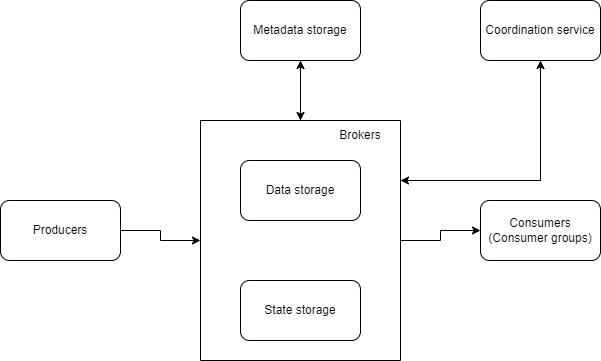
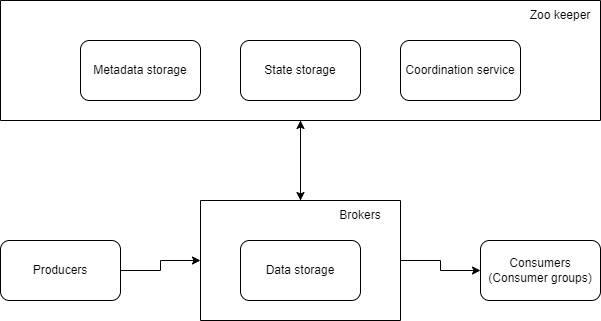
Update Generative AI notes

diff --git a/software-engineering/2-distributed-message-queue.html b/software-engineering/2-distributed-message-queue.html
@@ -121,14 +121,17 @@
     <ul>
       <li>Holds partitions of topics</li>
       <li>Data storage - persists messages in a form of partitions</li>
-      <li>State storage - manages consumer states</li>
-      <li>Metadata stroage - persists configuration of topics</li>
     </ul>
 
-    <h3 class="card-title">Coordination service</h3>
+    <h3 class="card-title">Zookeeper</h3>
     <ul>
-      <li>Service discovery - checks which brokers are alive</li>
-      <li>Leader election - only one broker serves as active controller at a time, which assigns partitions in the cluster. Apache ZooKeeper or etcd are commonly used as leader elector</li>
+      <li>Metadata stroage - persists configuration of topics</li>
+      <li>State storage - manages consumer states</li>
+      <li>Coordination service</li>
+      <ul>
+        <li>Service discovery - checks which brokers are alive</li>
+        <li>Leader election - only one broker serves as active controller at a time, which assigns partitions in the cluster. Apache ZooKeeper or etcd are commonly used as leader elector</li>
+      </ul>
     </ul>
   </div>
   <div class="card-footer text-muted">
@@ -226,14 +229,58 @@
           <ul>
             <li>Requires long polling, which waits some time for new messages</li>
           </ul>
+          <li>Workflow</li>
+          <ul>
+            <img class="img-fluid" class="card-img-top" src="/img/system-design/distributed-message-queue3.png" alt="Card image cap">
+            <li>A new consumer wants to join group 1 and subscribe to topic A</li>
+            <li>All consumers in the same group connect to the same broker</li>
+            <li>Coordinator assignes partition 2 to consumer</li>
+            <li>Consumer fetches message from the last consumed offset, which is managed by state storage</li>
+            <li>Consumer processes messages and commits the offset to the broker</li>
+          </ul>
         </ul>
-        <img class="img-fluid" class="card-img-top" src="/img/system-design/distributed-message-queue3.png" alt="Card image cap">
-        <li>A new consumer wants to join group 1 and subscribe to topic A</li>
-        <li>All consumers in the same group connect to the same broker</li>
-        <li>Coordinator assignes partition 2 to consumer</li>
-        <li>Consumer fetches message from the last consumed offset, which is managed by state storage</li>
-        <li>Consumer processes messages and commits the offset to the broker</li>
+        <li>Consumer rebalancing</li>
+        <ul>
+          <li>Decides which consumer is responsible for which subset of partitions</li>
+          <li>Needed when consumer joins, consumer leaves, consumer crashes, paritions are adjusted</li>
+          <img class="img-fluid" class="card-img-top" src="/img/system-design/distributed-message-queue4.png" alt="Card image cap">
+          <li>Each consumer belongs to a group. Each consumer finds the coordinator by hashing the group name. All consumers from the same group are connected to the same coordinator</li>
+          <li>Coordinator elects new leader for the group</li>
+          <li>Leader generates new partition dispatch plan and reports it back to coordinator. Coordinator broadcasts the plan to other consumers in the group</li>
+        </ul>
       </ul>
+    </ul>
+
+    <h3 class="card-title">Replication</h3>
+    <ul>
+      <li>For example, each partition having 3 replica means that 1 leader and 2 followers are distributed in different brokers</li>
+      <li>Messages are only written to the leader, and followers sync messages from leader</li>
+      <li>In-sync replica - replicas that are in-sync with the leader</li>
+      <li>ACK=all</li>
+      <ul>
+        <li>Producer get ACK when all in-sync replicas received the message</li>
+        <li>High latency but strong message durability</li>
+      </ul>
+      <li>ACK=1</li>
+      <ul>
+        <li>Producer get ACK when leader received the message</li>
+        <li>Low latency but occasional data loss</li>
+      </ul>
+      <li>ACK=0</li>
+      <ul>
+        <li>Produces send messages to leader without waiting for any ACK</li>
+        <li>Suitable for collecting metrics or logging data</li>
+      </ul>
+    </ul>
+
+    <h3 class="card-title">Scalability</h3>
+    <ul>
+      <li></li>
+    </ul>
+
+    <h3 class="card-title">Data delivery semantics</h3>
+    <ul>
+      <li></li>
     </ul>
   </div>
   <div class="card-footer text-muted">

diff --git a/machine-learning/5-people-you-may-know.html b/machine-learning/5-people-you-may-know.html
@@ -115,7 +115,7 @@
         <li>Edge prediction</li>
         <ul>
           <li>Input is entire graph and output is probability of an edge existing between two specific nodes</li>
-          <li>Compute the edge probabilities between user A and otehr users</li>
+          <li>Compute the edge probabilities between user A and other users</li>
         </ul>
       </ul>
     </ul>
@@ -195,14 +195,20 @@
       <li>Model selection</li>
       <ul>
         <li>Graph neural network</li>
+        <ul>
+          <li>Each node stores features</li>
+          <li>GNN produces embeddings for each node</li>
+          <li>Simlarity between nodes are computing using dot product</li>
+          <li>Ex. GCN, GraphSAGE, GAT, GIT</li>
+        </ul>
       </ul>
       <li>Model training</li>
       <ul>
         <li>Construct dataset</li>
         <ul>
-          <li>Create a snapshot of the graph at time t</li>
+          <li>Create a snapshot of the graph at time \( t \)</li>
           <li>Compute initial node features and edge features of the graph</li>
-          <li>Create labels</li>
+          <li>Create labels using graph snapshot at time \( t + 1 \)</li>
         </ul>
         <li>Choose loss function</li>
       </ul>
@@ -249,12 +255,13 @@
       <ul>
         <li>Batch prediction - pre-compute potential connections for all users and store them in DB</li>
         <li>However, making batch predictions for inactive users is waste of resources</li>
+        <li>Since social graph does not evolve quickly, use pre-computed prediction for 7 days and re-compute them</li>
       </ul>
       <li>Generation pipeline</li>
       <ul>
-        <li>Fof narrows down search space</li>
+        <li>FoF narrows down search space</li>
         <li>Scoring service scores each candidate connection using GNN model</li>
-        <li>WHen user request is made, PYMK list is pulled from DB</li>
+        <li>When user request is made, PYMK list is pulled from DB</li>
       </ul>
       <li>Prediction pipeline</li>
       <ul>

diff --git a/software-engineering/1-geometry.html b/software-engineering/1-geometry.html
@@ -194,7 +194,33 @@
   <div class="card-body">
     <h2 class="card-title">K closest points to origin (M)</h2>
 
-<pre><code class="python"></code></pre>
+<pre><code class="python">class Solution:
+    def kClosest(self, points: List[List[int]], k: int) -> List[List[int]]:
+
+        # For each point, compute distance to origin
+        # Sort by the distance
+
+        distances = defaultdict(list)
+        distances_number = []
+
+        # Time O(n) n = len(points)
+        # Space O(n)
+        for point in points:
+            distance = math.sqrt(point[0]**2+point[1]**2)
+            distances[distance].append(point)
+            distances_number.append(distance)
+
+        distances_number.sort()
+        result = []
+        for distance in distances_number:
+            for point in distances[distance]:
+                if k > 0:
+                    result.append(point)
+                    k -= 1
+                else:
+                    break
+
+        return result</code></pre>
   </div>
   <div class="card-footer text-muted">
     Reference: <a href="https://leetcode.com/problems/k-closest-points-to-origin">973. K Closest Points to Origin</a>

diff --git a/machine-learning/10-generative-ai.html b/machine-learning/10-generative-ai.html
@@ -63,6 +63,15 @@
         <li>Input and output length is limited</li>
         <li>Does not work well with structured (tabular) data</li>
         <li>Can reflect bias</li>
+        <li>Not good at precise math</li>
+      </ul>
+      <li>Fine-tuning - for example, to mimic personal speech style, produce medical/legal docs</li>
+      <li>Pre-training - done by large tech companies</li>
+      <li>Choosing model</li>
+      <ul>
+        <li>1B params - Ex. sentiment analysis</li>
+        <li>10B params - Ex. food ordering chatbot</li>
+        <li>100B+ params - Ex. brainstorming partner</li>
       </ul>
     </ul>
   </div>
